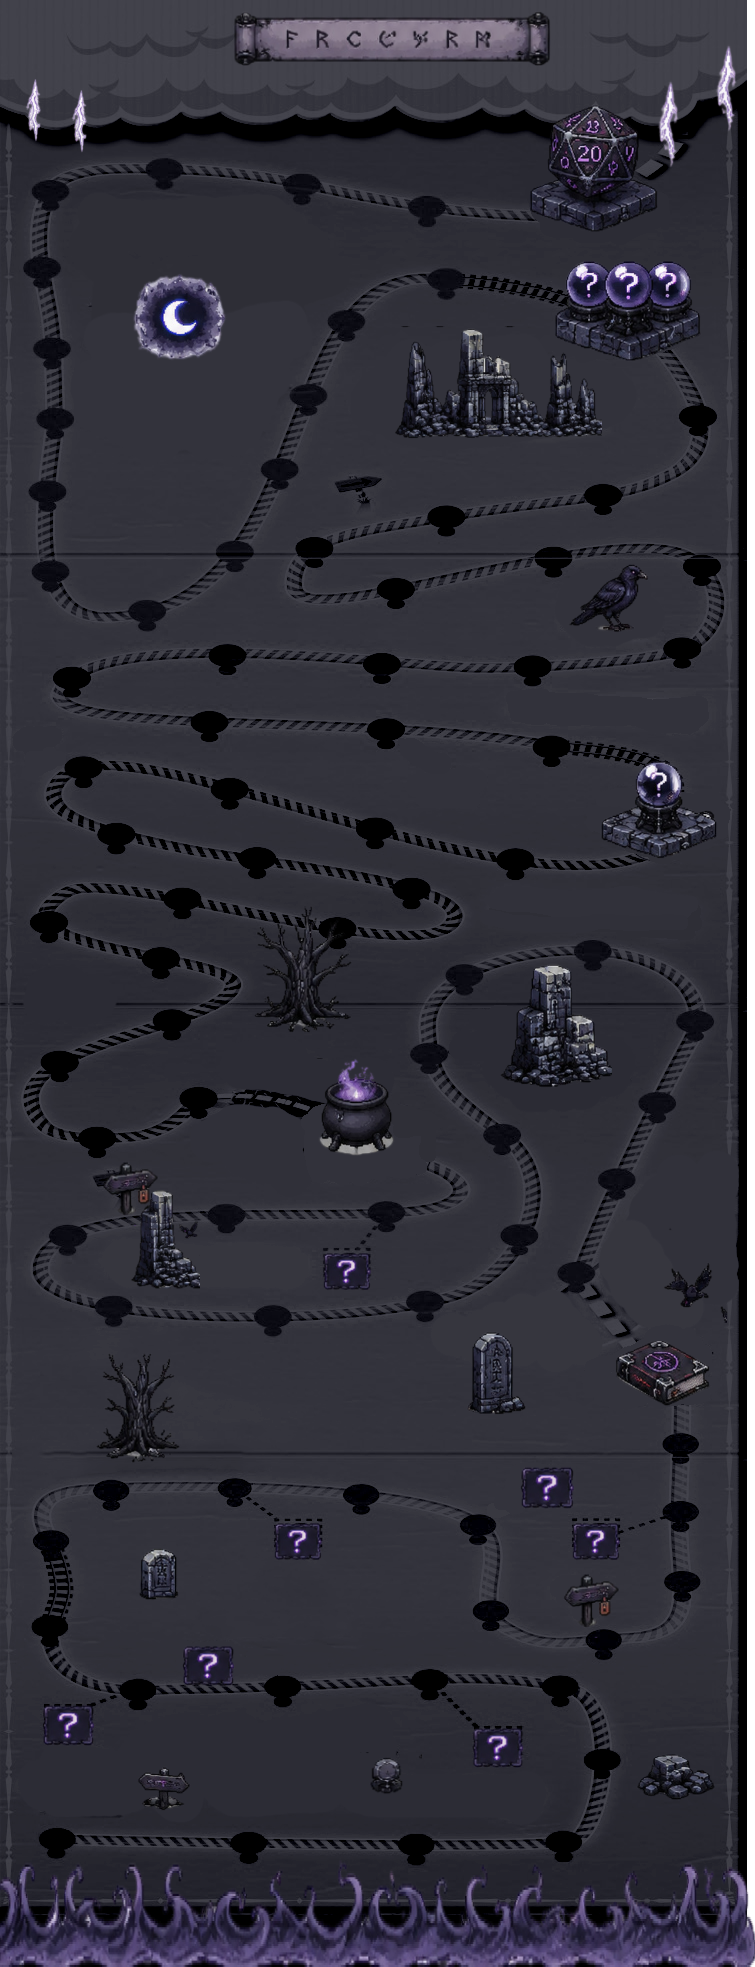
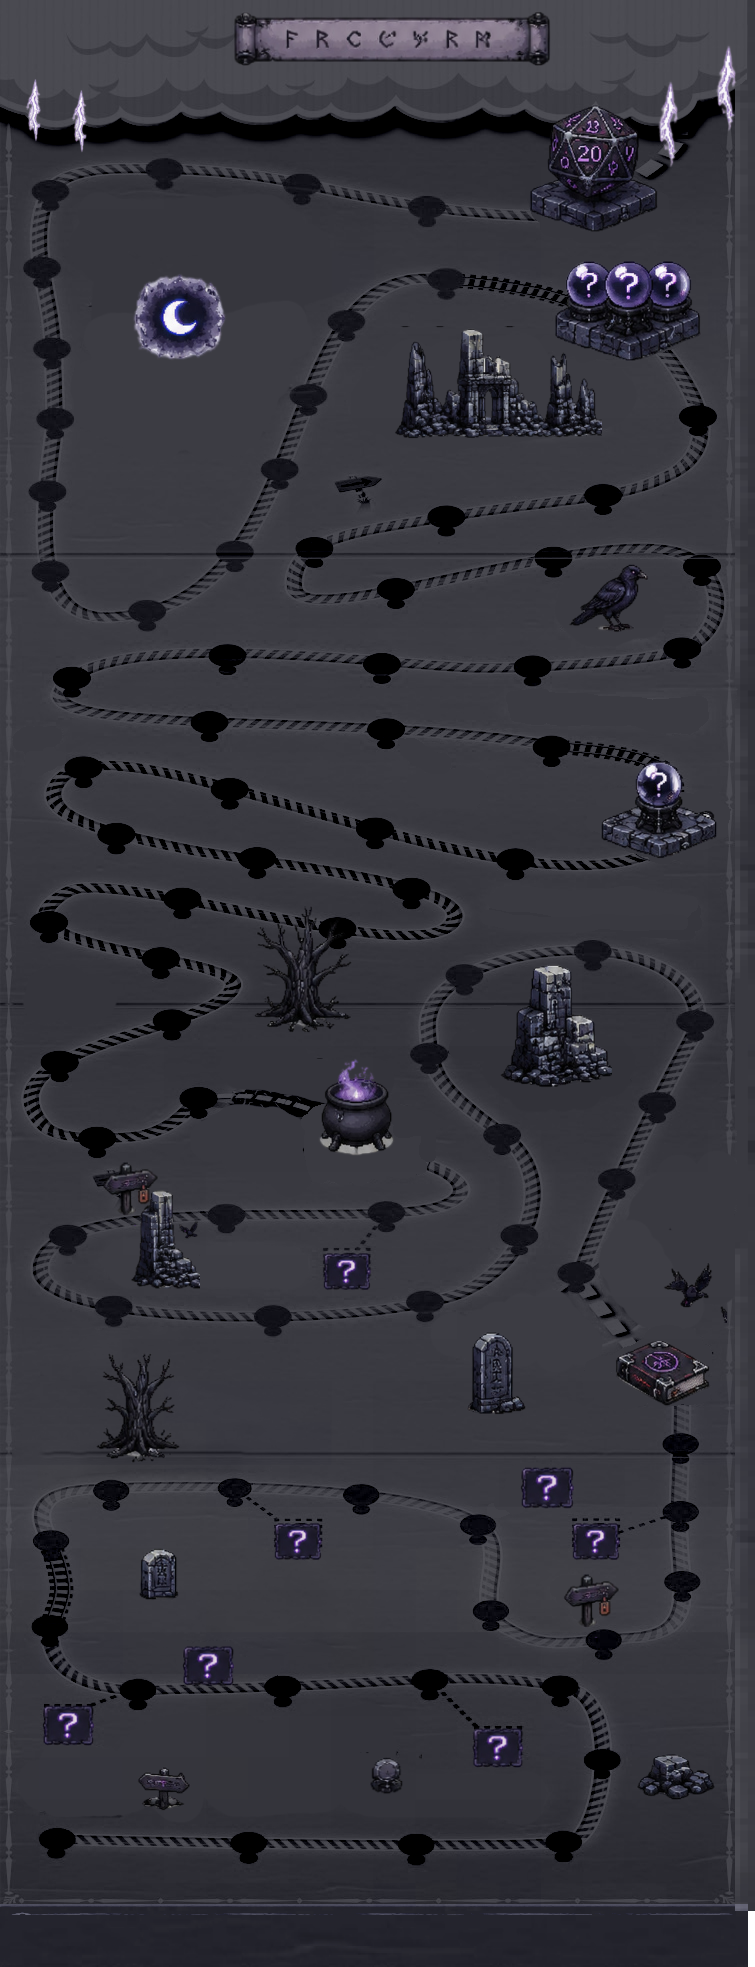
added map level

Changed region(s): [[0.0, 0.0, 1.0, 1.0]]

diff --git a/lib/features/map/screen.dart b/lib/features/map/screen.dart
@@ -1,68 +1,41 @@
-
 import 'package:flutter/material.dart';
-import 'package:go_router/go_router.dart';
-import 'package:provider/provider.dart';
+import 'package:game_levels_scrolling_map/game_levels_scrolling_map.dart';
+import 'package:game_levels_scrolling_map/model/point_model.dart';
+import 'package:mojingo/features/map/widgets/level_node.dart';
 
-import '../../config/audio/audio_controller.dart';
-import '../../config/audio/sounds.dart';
-import '../inventory/player_progress.dart';
-import '../../widgets/custom_button.dart';
-import '../../config/palette.dart';
-import '../../widgets/responsive_screen.dart';
-import 'levels.dart';
+class LevelsMapScreen extends StatefulWidget {
+  const LevelsMapScreen({super.key});
 
-class LevelMapScreen extends StatelessWidget {
-  const LevelMapScreen({super.key});
+  @override
+  State<LevelsMapScreen> createState() => _LevelsMapScreenState();
+}
+
+class _LevelsMapScreenState extends State<LevelsMapScreen> {
+  late final List<PointModel> _points;
+
+  @override
+  void initState() {
+    super.initState(); 
+    
+    _points = List.generate(
+      1,
+      (index) => PointModel(100, LevelNode(level: index + 1)),
+    );
+  }
 
   @override
   Widget build(BuildContext context) {
-    final palette = context.watch<Palette>();
-    final playerProgress = context.watch<PlayerProgress>();
-
     return Scaffold(
-      backgroundColor: palette.midnight,
-      body: ResponsiveScreen(
-        squarishMainArea: Column(
-          children: [
-            const Padding(
-              padding: EdgeInsets.all(16),
-              child: Center(
-                child: Text(
-                  'Select level',
-                ),
-              ),
-            ),
-            const SizedBox(height: 50),
-            Expanded(
-              child: ListView(
-                children: [
-                  for (final level in gameLevels)
-                    ListTile(
-                      enabled:
-                          playerProgress.highestLevelReached >=
-                          level.number - 1,
-                      onTap: () {
-                        final audioController = context.read<AudioController>();
-                        audioController.playSfx(SfxType.buttonTap);
-
-                        GoRouter.of(
-                          context,
-                        ).go('/play/session/${level.number}');
-                      },
-                      leading: Text(level.number.toString()),
-                      title: Text('Level #${level.number}'),
-                    ),
-                ],
-              ),
-            ),
-          ],
-        ),
-        rectangularMenuArea: CustomButton(
-          onPressed: () {
-            GoRouter.of(context).go('/');
-          },
-          child: const Text('Back'),
-        ),
+      body: GameLevelsScrollingMap.scrollable(
+        imageUrl: "assets/images/map/map_visual.png",
+        imageWidth: 755,
+        imageHeight: 1967,
+        direction: Axis.vertical,
+        reverseScrolling: true,
+        pointsPositionDeltaX: 25,
+        pointsPositionDeltaY: 25,
+        svgUrl: 'assets/images/map/map_coordinates.svg',
+        points: _points,
       ),
     );
   }

diff --git a/lib/features/map/widgets/level_node.dart b/lib/features/map/widgets/level_node.dart
@@ -1,0 +1,58 @@
+import 'package:flutter/material.dart';
+import 'package:go_router/go_router.dart';
+import 'package:mojingo/config/audio/audio_controller.dart';
+import 'package:mojingo/config/audio/sounds.dart';
+import 'package:provider/provider.dart';
+
+class LevelNode extends StatelessWidget {
+  final int level;
+
+  const LevelNode({super.key, required this.level});
+
+  @override
+  Widget build(BuildContext context) {
+
+    return InkWell(
+      onTap: () => _showLevelDialog(context),
+      child: Stack(
+        alignment: Alignment.center,
+        children: [
+          Image.asset(
+            "assets/images/map/level.png",
+            fit: BoxFit.fitWidth,
+            width: 45,
+          ),
+          Text("$level", style: Theme.of(context).textTheme.titleMedium),
+        ],
+      ),
+    );
+  }
+
+  void _showLevelDialog(BuildContext context) {
+    final audioController = context.read<AudioController>();
+
+    showDialog(
+      context: context,
+      builder: (BuildContext context) {
+        return AlertDialog(
+          title: Text("Level $level"),
+          content: const Text("Ready to play this level?"),
+          actions: <Widget>[
+            TextButton(
+              child: const Text("Cancel"),
+              onPressed: () => Navigator.of(context).pop(),
+            ),
+            FilledButton(
+              child: const Text("Play"),
+              onPressed: () {
+                audioController.playSfx(SfxType.buttonTap);
+
+                GoRouter.of(context).go('/play/session/$level');
+              },
+            ),
+          ],
+        );
+      },
+    );
+  }
+}

diff --git a/lib/router.dart b/lib/router.dart
@@ -20,7 +20,7 @@ final router = GoRouter(
           routes: [
             GoRoute(
               path: Routes.levelsMap,
-              builder: (context, state) => const LevelMapScreen(),
+              builder: (context, state) => const LevelsMapScreen(),
             ),
           ],
         ),

diff --git a/lib/config/audio/sounds.dart b/lib/config/audio/sounds.dart
@@ -10,6 +10,7 @@ List<String> soundTypeToFilename(SfxType type) => switch (type) {
 
   ],
   SfxType.buttonTap => const [
+    'whirl_test_tube.mp3'
     
   ],
   SfxType.congrats => const [